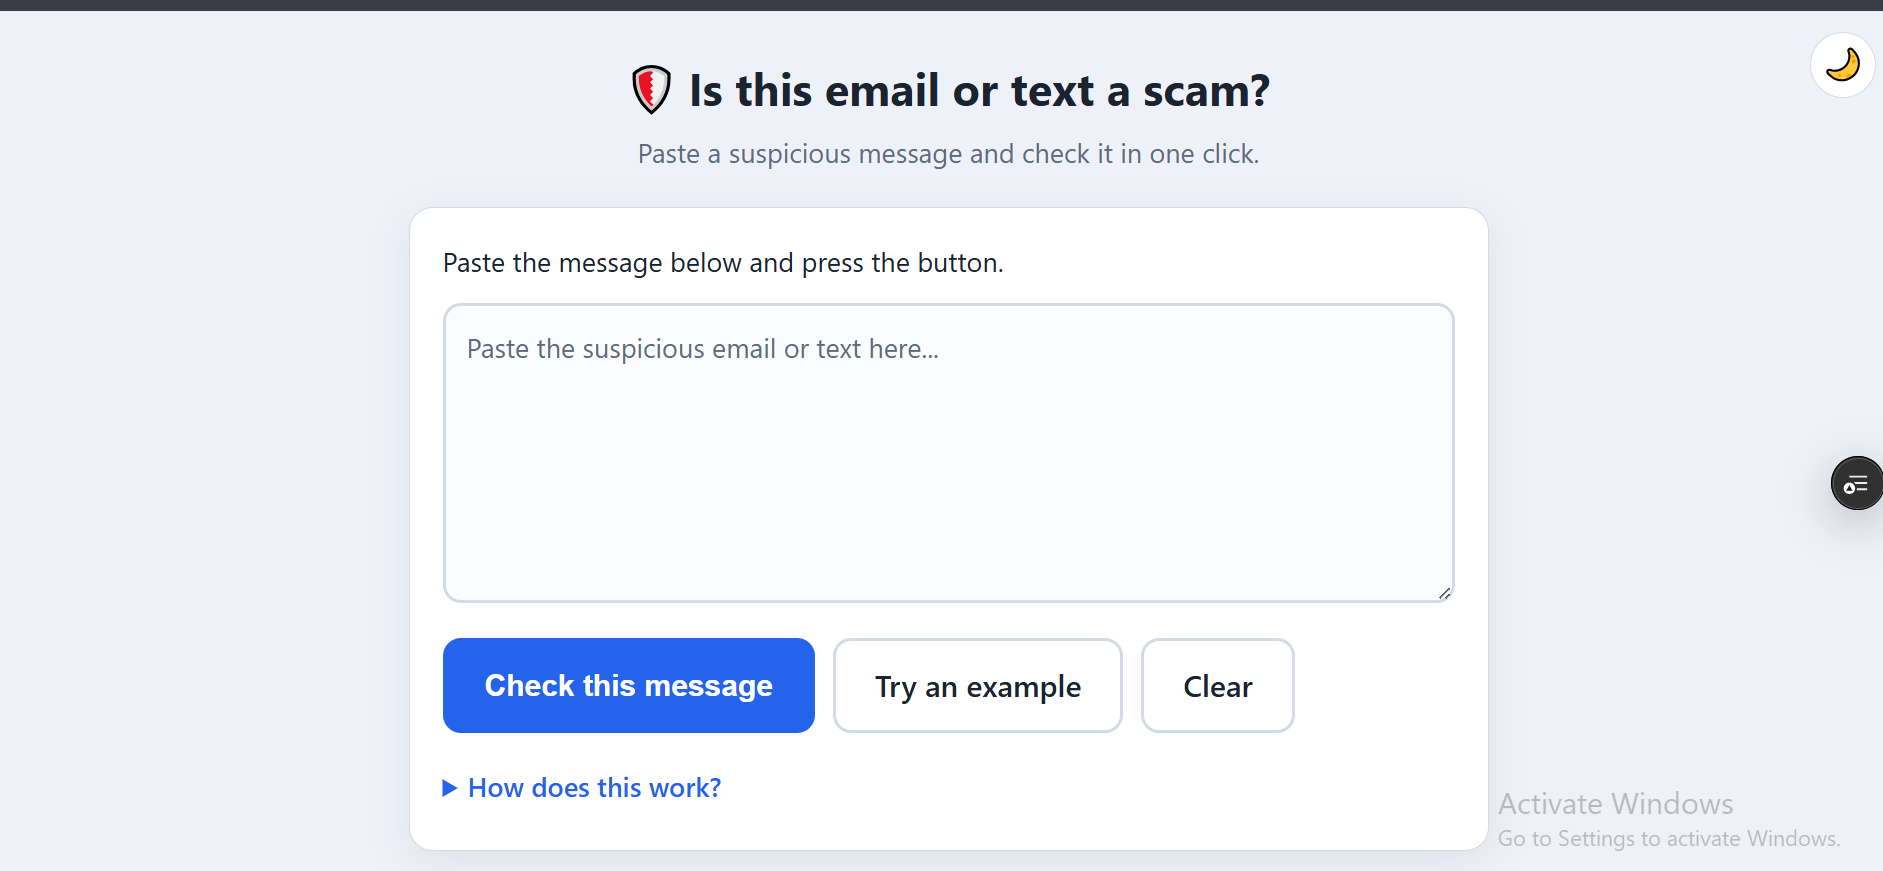
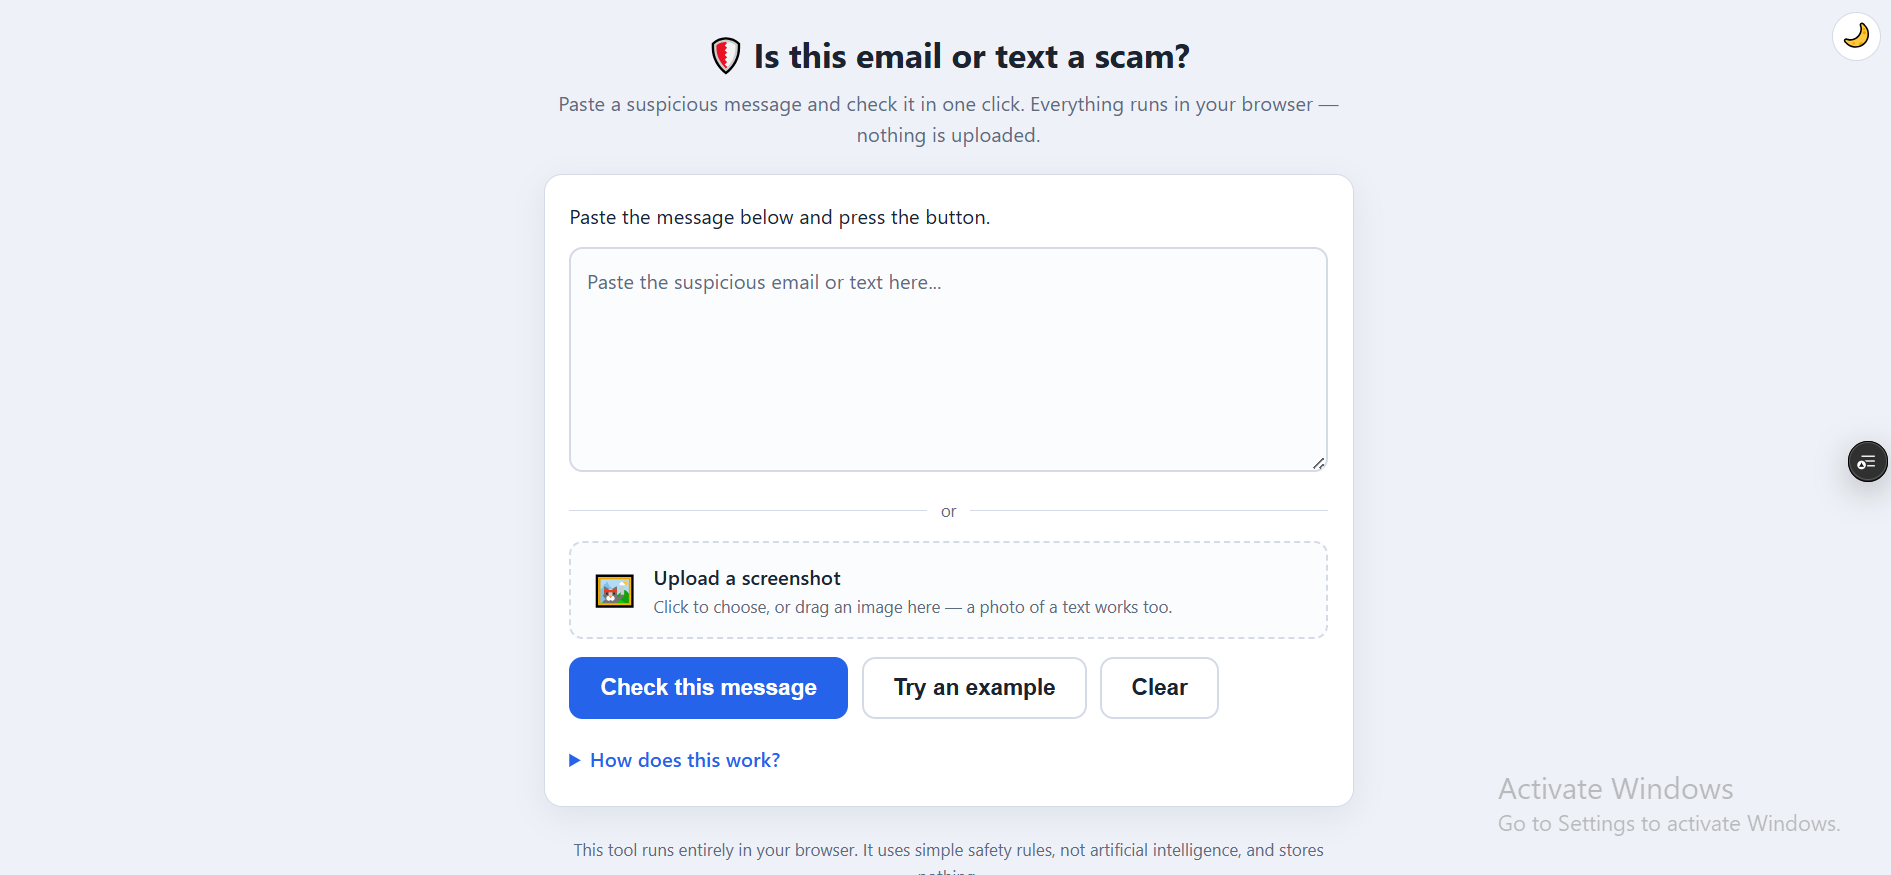
docs: update screenshot to the new browser app (with upload dropzone)

diff --git a/README.md b/README.md
@@ -17,7 +17,7 @@ relative). The goal is to teach instinct, not just block.
 entirely in your browser, so nothing you paste (or any screenshot you upload) is
 sent to a server.
 
-![The web page: a paste box, one button, and a plain-language verdict](docs/screenshot.png)
+![The browser app: paste a message or upload a screenshot, then get a plain-language verdict](docs/screenshot.png)
 
 ## How it works
 